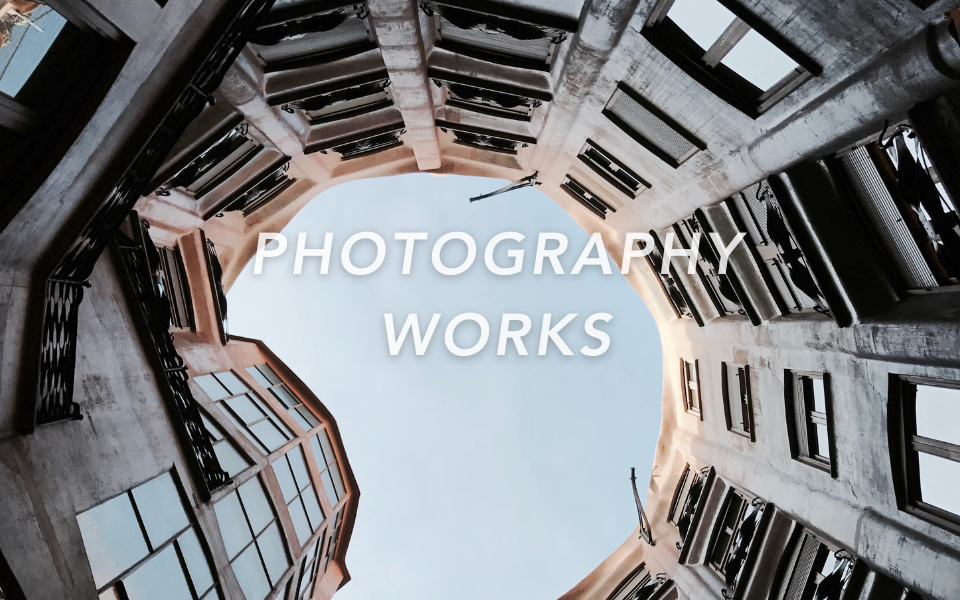
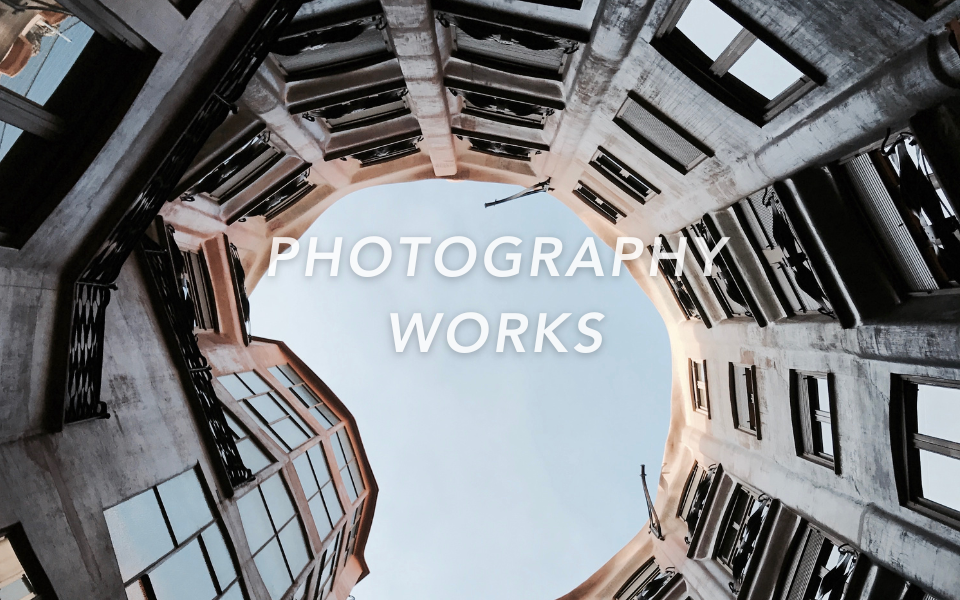
fix overlay images size and position in project section

diff --git a/themes/hugoplate/layouts/index.html b/themes/hugoplate/layouts/index.html
@@ -138,33 +138,47 @@
 {{ with site.GetPage "sections/projects" }}
   {{ if .Params.enable }}
     <section class="section p-0">
-      <!-- Title & Description -->
-      <div class="text-center mb-8">
-        <h2 class="mb-2">
-          {{ .Title | markdownify }}
-        </h2>
-        <p class="text-sm">
-          {{ .Params.description | markdownify }}
-        </p>
+      <!-- Title + Description -->
+      <div class="container mx-auto text-center py-8">
+        <h2 class="mb-4">{{ .Title | markdownify }}</h2>
+        <p class="text-sm">{{ .Params.description | markdownify }}</p>
       </div>
 
-      <!-- 2 columns, no gap, full width -->
+      <!-- Projects Grid (two columns) -->
       <div class="grid grid-cols-1 md:grid-cols-2 gap-0 w-full">
         {{ range .Params.projects }}
-          <div class="relative w-full">
-            <!-- Clickable Image Box -->
-            <a href="{{ .link | absURL }}" class="group block w-full relative">
-              <!-- Render the image at 960×640; no forced height -->
-              {{ partial "image" (dict "Src" .image "Alt" .title "Loading" "eager" 
-                "Class" "w-full h-auto object-cover" "DisplayXL" "960x640") }}
+          <div class="relative w-full" style="padding-top: 62.5%;">
+            <!-- 62.5% = (600 / 960) * 100, preserving an 8:5 aspect ratio -->
 
-              <!-- Hover Overlay -->
-              <div 
-                class="absolute inset-0 opacity-0 group-hover:opacity-100 transition duration-300 
-                           ease-in-out bg-black bg-opacity-30 flex items-center justify-center">
-                <span class="text-white text-2xl font-bold">
-                  {{ .title | markdownify }}
-                </span>
+            <a href="{{ .link | absURL }}" class="group block w-full h-full absolute inset-0">
+              <!-- Base Image (using your "image" partial) -->
+              {{ partial "image" (dict 
+                  "Src" .image 
+                  "Alt" .title 
+                  "Loading" "eager"
+                  "Class" "w-full h-full object-cover"
+                  "DisplayXL" "960x600"
+              ) }}
+
+              <!-- Hover overlay -->
+              <div
+                class="absolute inset-0 opacity-0 group-hover:opacity-100
+                       transition duration-300 ease-in-out
+                       flex items-center justify-center"
+              >
+                {{ if .overlayImage }}
+                  {{ partial "image" (dict 
+                      "Src" .overlayImage 
+                      "Alt" .title 
+                      "Loading" "eager"
+                      "Class" "w-full h-full object-cover"
+                      "DisplayXL" "960x600"
+                  ) }}
+                {{ else }}
+                  <span class="text-white text-2xl font-bold">
+                    {{ .title | markdownify }}
+                  </span>
+                {{ end }}
               </div>
             </a>
           </div>

diff --git a/content/english/sections/projects.md b/content/english/sections/projects.md
@@ -1,6 +1,6 @@
 ---
 enable: true
-title: "Projects_Jam"
+title: "Projects"
 description: "Explore my creative and technical projects."
 projects:
   - title: "Photography Works"
